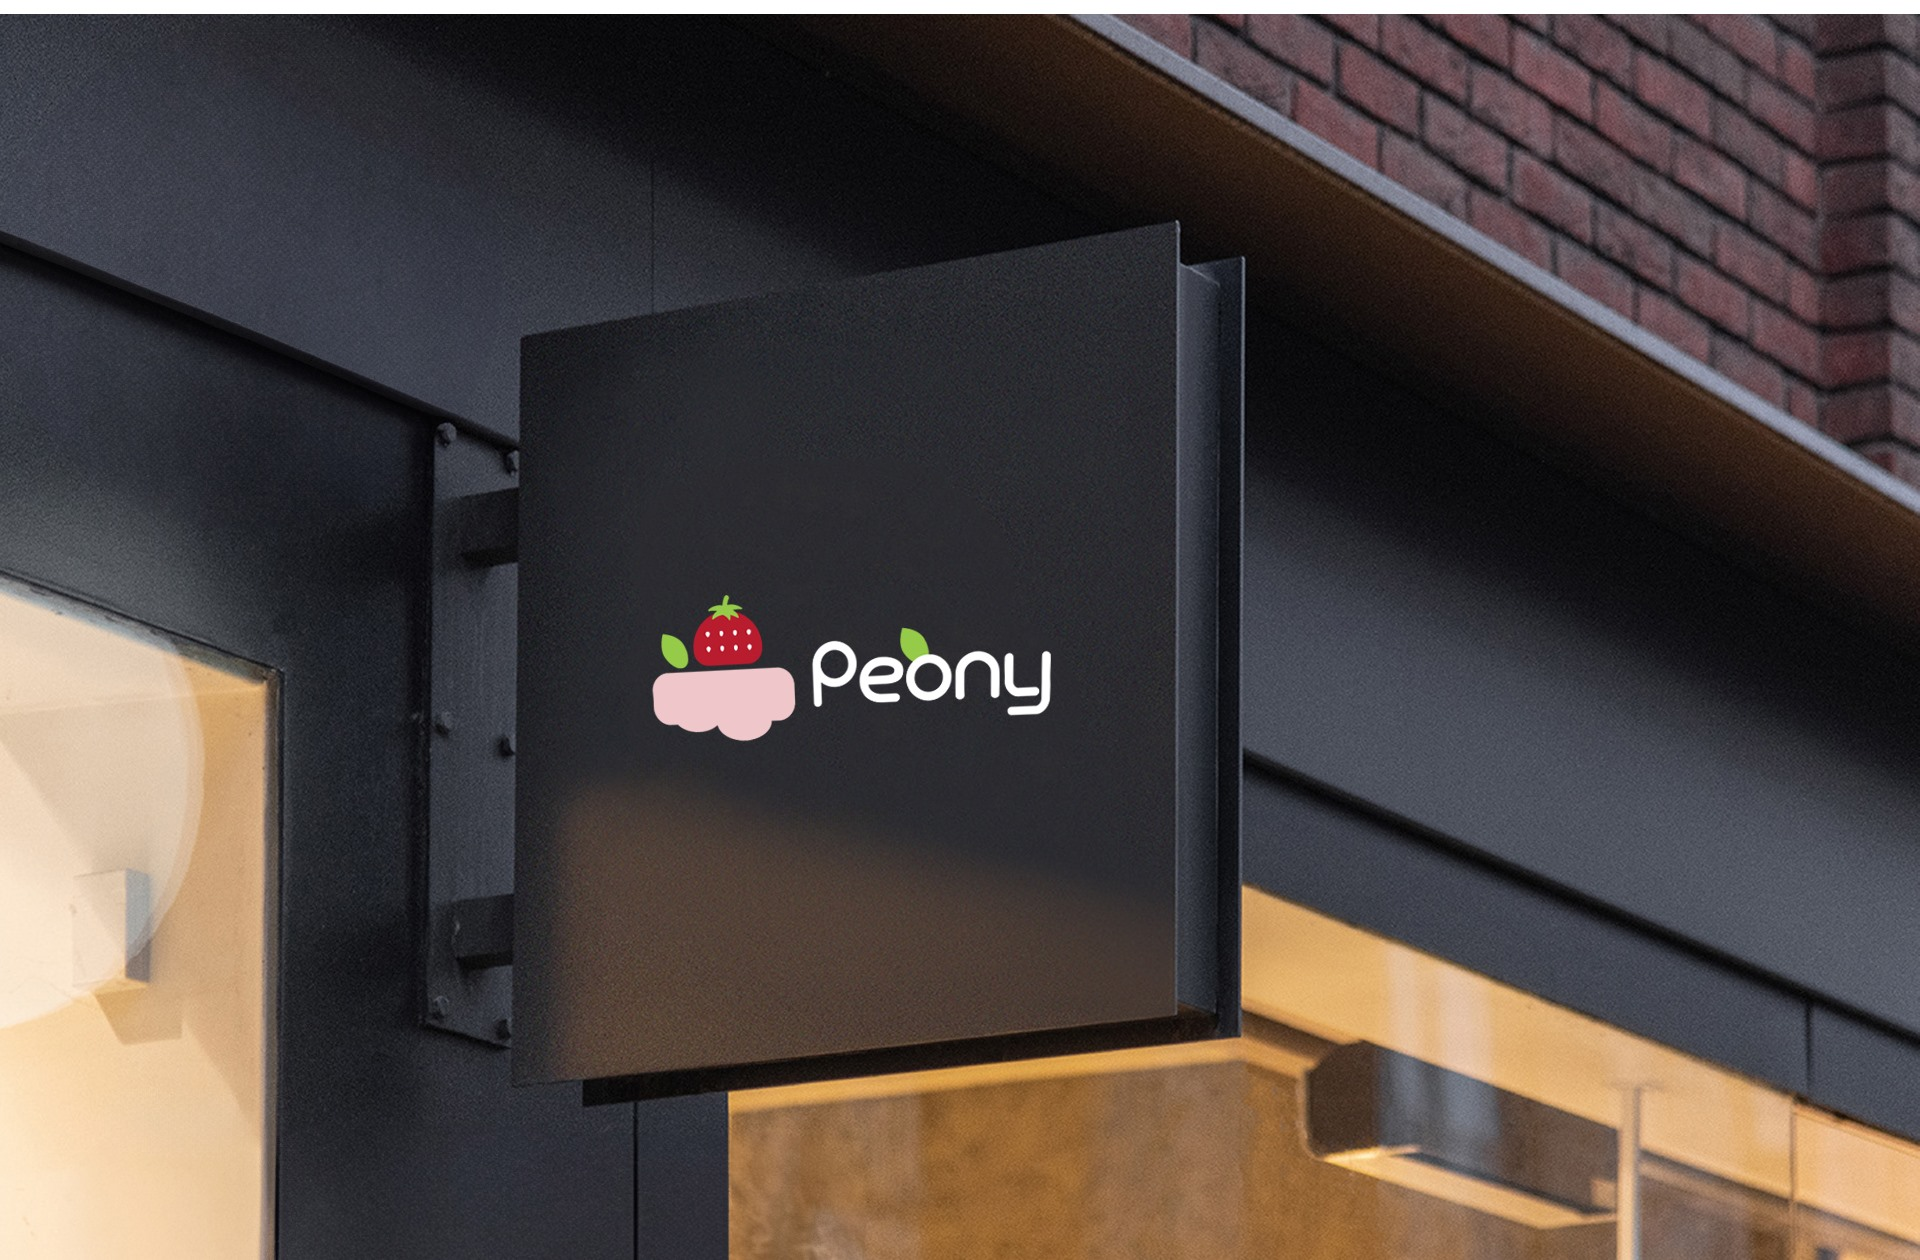
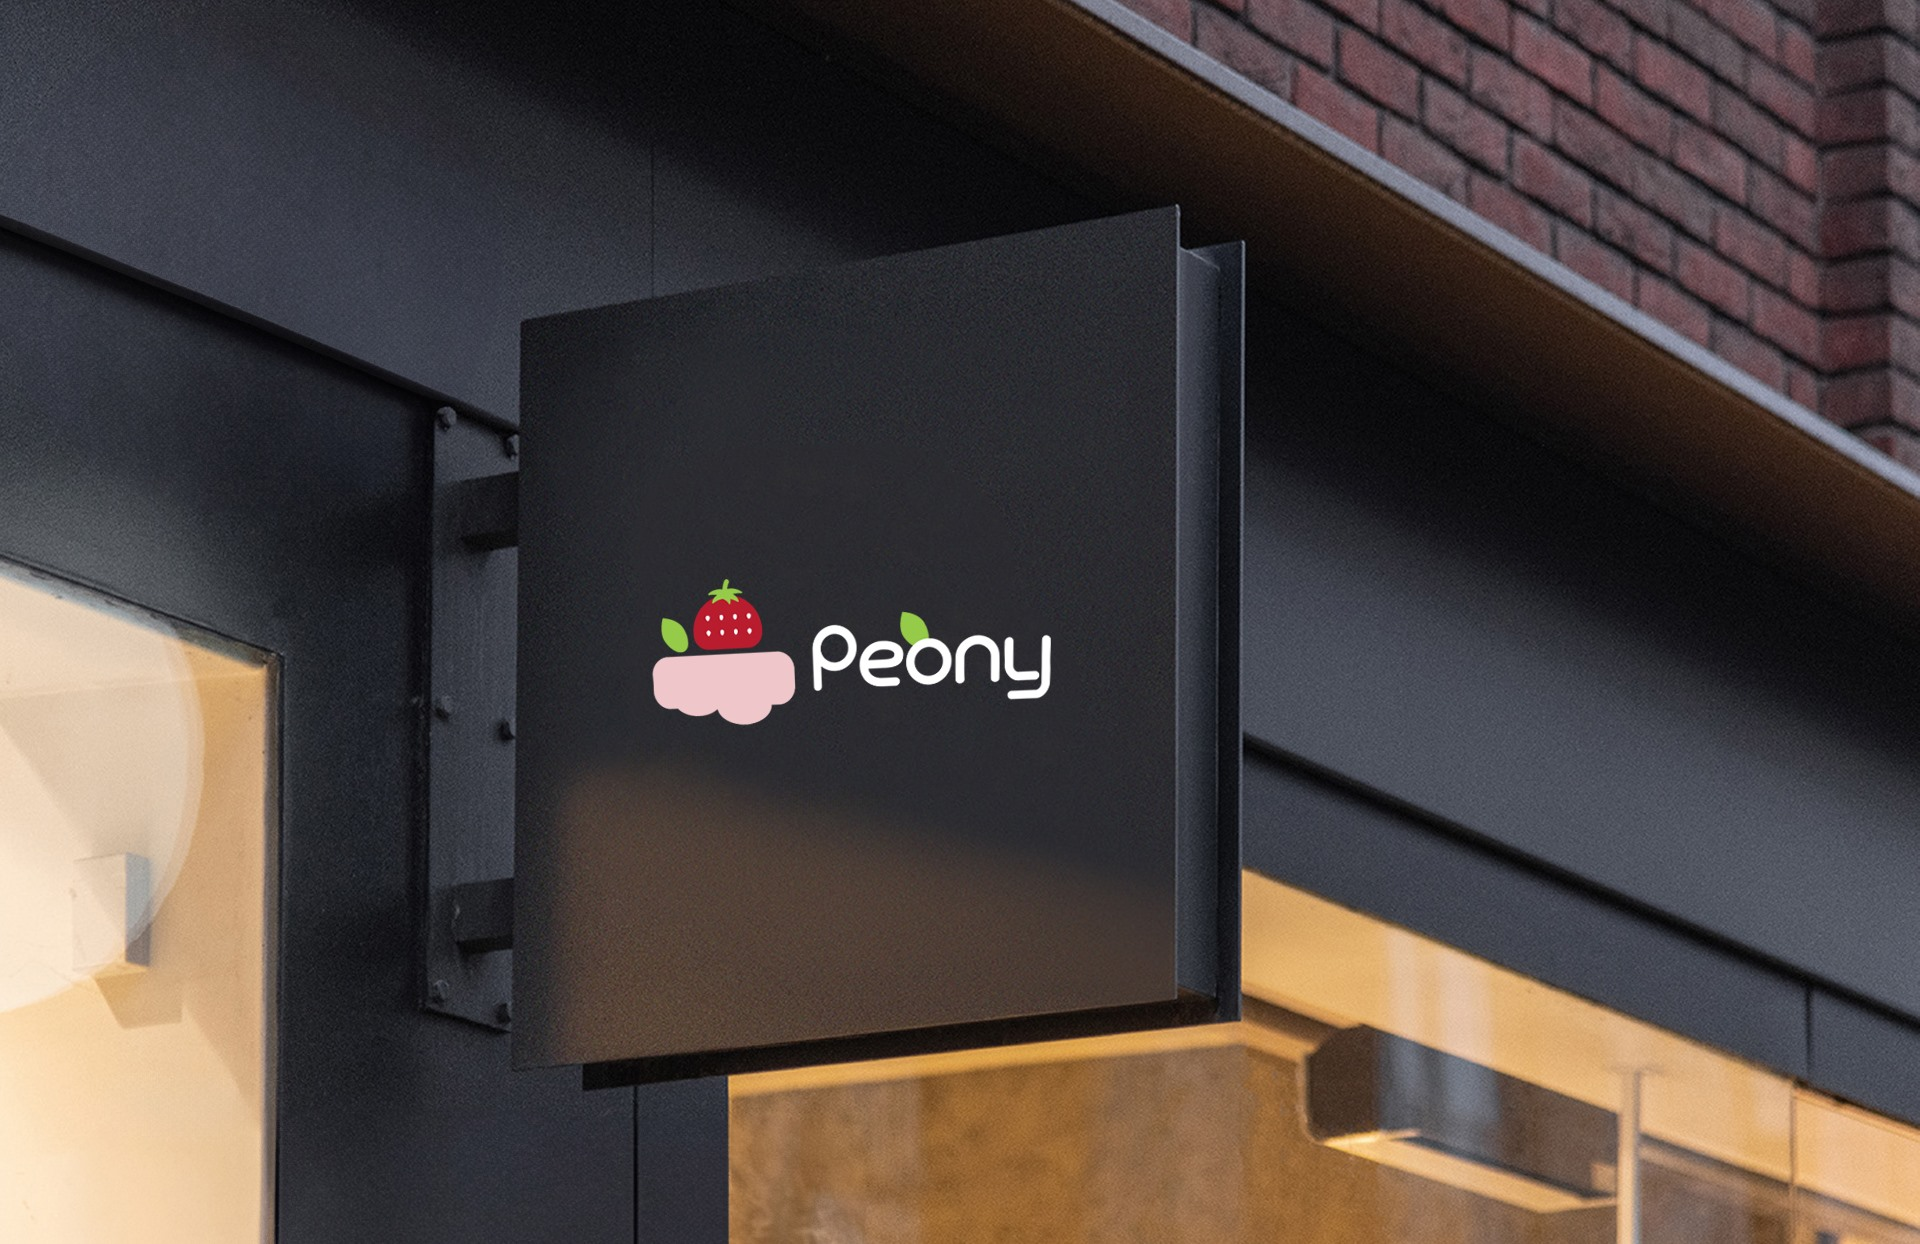
상세 페이지 Overview 영역(소개 문단+정보표) 전체 제거 + 피오니 대표컷 상단 흰 띠 제거
- 9개 페이지 모두 dt-grid 블록 삭제, 히어로→(Works) 간격 재정리(본문 상단 패딩 축소), 관련 CSS 정리
- 피오니: 크롭 상단에 포함됐던 시트 흰 경계 15px 재크롭으로 제거(원본 비율 유지, 확대 없음)

diff --git a/css/detail.css b/css/detail.css
@@ -39,19 +39,12 @@ a:focus-visible{ outline:2px solid currentColor; outline-offset:3px; }
 .dt-cover{ margin-top:clamp(36px,5vw,62px); border:1px solid var(--line-d); overflow:hidden; background:#10141d; }
 .dt-cover img{ width:100%; height:auto; }
 
-/* 본문 — 밝은 배경, 얇은 선으로 구획 */
-.dt-body{ padding:clamp(56px,8vw,104px) 0 clamp(64px,9vw,116px); }
+/* 본문 — 밝은 배경: 대표 비주얼에서 바로 작업 화면으로 이어짐 */
+.dt-body{ padding:clamp(44px,6vw,80px) 0 clamp(64px,9vw,116px); }
 .lab{ font-size:12.5px; font-weight:700; letter-spacing:.08em; color:var(--gray-ink); }
-.dt-grid{ display:grid; grid-template-columns:minmax(0,1.5fr) minmax(280px,1fr); gap:clamp(34px,6vw,96px);
-  padding-bottom:clamp(44px,6vw,72px); border-bottom:1px solid var(--line-l); }
-.dt-ov p{ margin-top:18px; font-size:clamp(17px,1.55vw,21px); font-weight:500; line-height:1.78; color:#2b2b28; word-break:keep-all; }
-.dt-meta div{ display:grid; grid-template-columns:112px 1fr; gap:14px; padding:13px 2px; border-bottom:1px solid var(--line-l); }
-.dt-meta div:first-child{ border-top:1px solid var(--line-l); }
-.dt-meta dt{ font-size:12.5px; font-weight:700; letter-spacing:.06em; color:var(--gray-ink); padding-top:3px; }
-.dt-meta dd{ font-size:14.5px; font-weight:500; color:#2b2b28; line-height:1.6; }
 
 /* 작업 화면 — 긴 페이지는 자연스러운 페이지 스크롤로, 얇은 선 프레임만 */
-.dt-shots{ margin-top:clamp(44px,6vw,72px); }
+.dt-shots{ margin-top:0; }
 .dt-shots .shot{ margin-top:26px; border:1px solid var(--line-l); overflow:hidden; background:#fff; }
 .dt-shots .shot img{ width:100%; height:auto; }
 .dt-shots figcaption{ font-size:13px; color:var(--gray-ink); padding:10px 2px 0; }
@@ -80,8 +73,6 @@ a:focus-visible{ outline:2px solid currentColor; outline-offset:3px; }
 }
 
 @media(max-width:760px){
-  .dt-grid{ grid-template-columns:1fr; }
-  .dt-meta{ margin-top:6px; }
   .dt-nthumb{ display:none; }
   .dt-sub{ font-size:15.5px; }
 }

diff --git a/peony.html b/peony.html
@@ -24,24 +24,12 @@
       <h1 class="dt-title rv">Peony Cake</h1>
       <p class="dt-sub rv">딸기 생크림 케이크를 모티프로 한 디저트 브랜드 Peony의 아이덴티티 디자인입니다.</p>
 
-      <figure class="dt-cover rv"><img src="assets/peony/peonymain.jpg" alt="Peony 브랜드 사인 목업" width="1920" height="1260" /></figure>
+      <figure class="dt-cover rv"><img src="assets/peony/peonymain.jpg" alt="Peony 브랜드 사인 목업" width="1920" height="1244" /></figure>
     </div>
   </section>
 
   <section class="dt-body">
     <div class="wrap">
-      <div class="dt-grid">
-        <div class="dt-ov rv">
-          <span class="lab">(Overview)</span>
-          <p>귀엽고 산뜻한 브랜드 이미지를 목표로 로고와 컬러 시스템, 타입페이스를 설계했습니다. 패키지·컵·사인 등 브랜드가 실제로 쓰이는 장면까지 목업으로 구성해 아이덴티티가 매체 전반에서 일관되게 유지되도록 했습니다.</p>
-        </div>
-        <dl class="dt-meta rv">
-          <div><dt>Type</dt><dd>개인 작업 — 브랜딩</dd></div>
-          <div><dt>Role</dt><dd>브랜드 디자인</dd></div>
-          <div><dt>Scope</dt><dd>BRANDING · LOGO · GRAPHIC</dd></div>
-          <div><dt>Tools</dt><dd>Illustrator · Photoshop</dd></div>
-        </dl>
-      </div>
       <div class="dt-shots">
         <span class="lab rv">(Works)</span>
         <figure class="shot rv"><img src="assets/peony/peony.jpg" alt="" loading="lazy" style="margin-top:-56%" /></figure>

diff --git a/sensemom.html b/sensemom.html
@@ -32,18 +32,6 @@
 
   <section class="dt-body">
     <div class="wrap">
-      <div class="dt-grid">
-        <div class="dt-ov rv">
-          <span class="lab">(Overview)</span>
-          <p>기존 공식몰은 상품과 프로모션 콘텐츠가 한 화면에 복잡하게 얽혀 있어 우선순위가 잘 드러나지 않았습니다. 카페24 템플릿을 기반으로 메인과 이벤트 콘텐츠 구조를 재구성하고, 운영 환경에서 배너·팝업 제작과 HTML·CSS 수정, 유지보수까지 함께 진행했습니다.</p>
-        </div>
-        <dl class="dt-meta rv">
-          <div><dt>Type</dt><dd>실무 작업 — 공식몰 리뉴얼·운영</dd></div>
-          <div><dt>Role</dt><dd>웹 디자인 · 퍼블리싱 · 운영</dd></div>
-          <div><dt>Scope</dt><dd>UIUX · WEB · PUBLISHING</dd></div>
-          <div><dt>Tools</dt><dd>Photoshop · Illustrator · HTML/CSS · 카페24</dd></div>
-        </dl>
-      </div>
       <div class="dt-shots">
         <span class="lab rv">(Works)</span>
         <figure class="shot rv"><img src="assets/sensemom/sense01.jpg" alt="" loading="lazy" style="margin-top:-69.3%" /></figure>

diff --git a/bobbibrown.html b/bobbibrown.html
@@ -32,19 +32,6 @@
 
   <section class="dt-body">
     <div class="wrap">
-      <div class="dt-grid">
-        <div class="dt-ov rv">
-          <span class="lab">(Overview)</span>
-          <p>제품이 돋보이도록 블랙을 기반으로 베이지 포인트를 더해 화면을 재구성했습니다. 메인 비주얼부터 상품·이벤트 영역까지 일관된 무드로 디자인하고, HTML·CSS로 직접 퍼블리싱해 실제로 동작하는 데모 페이지로 완성했습니다.</p>
-        </div>
-        <dl class="dt-meta rv">
-          <div><dt>Type</dt><dd>개인 리디자인</dd></div>
-          <div><dt>Role</dt><dd>웹 디자인 · 퍼블리싱</dd></div>
-          <div><dt>Scope</dt><dd>WEB · UIUX · BEAUTY</dd></div>
-          <div><dt>Tools</dt><dd>Photoshop · HTML/CSS</dd></div>
-          <div><dt>Credit</dt><dd>Design &amp; Publishing 100%</dd></div>
-        </dl>
-      </div>
       <div class="dt-shots">
         <span class="lab rv">(Works)</span>
         <figure class="shot rv"><img src="assets/bobbi/babipt1.jpg" alt="" loading="lazy" style="margin-top:-71.7%" /></figure>

diff --git a/patagonia.html b/patagonia.html
@@ -32,19 +32,6 @@
 
   <section class="dt-body">
     <div class="wrap">
-      <div class="dt-grid">
-        <div class="dt-ov rv">
-          <span class="lab">(Overview)</span>
-          <p>브랜드가 지향하는 자연과 환경의 메시지가 화면에서 먼저 읽히도록 메인을 재구성했습니다. 타이포그래피와 사진을 크게 쓰는 레이아웃으로 디자인하고, 직접 퍼블리싱해 실제로 동작하는 데모 페이지로 완성했습니다.</p>
-        </div>
-        <dl class="dt-meta rv">
-          <div><dt>Type</dt><dd>개인 리디자인</dd></div>
-          <div><dt>Role</dt><dd>웹 디자인 · 퍼블리싱</dd></div>
-          <div><dt>Scope</dt><dd>WEB · BRAND · UX</dd></div>
-          <div><dt>Tools</dt><dd>Photoshop · HTML/CSS</dd></div>
-          <div><dt>Credit</dt><dd>Design &amp; Publishing 100%</dd></div>
-        </dl>
-      </div>
       <div class="dt-shots">
         <span class="lab rv">(Works)</span>
         <figure class="shot rv"><img src="assets/patagonia/patapt1.jpg" alt="" loading="lazy" style="margin-top:-76%" /></figure>

diff --git a/museum.html b/museum.html
@@ -32,19 +32,6 @@
 
   <section class="dt-body">
     <div class="wrap">
-      <div class="dt-grid">
-        <div class="dt-ov rv">
-          <span class="lab">(Overview)</span>
-          <p>소장품이 주인공이 되도록 어두운 배경 위에 작품과 전시 정보를 정돈해 배치했습니다. 클래식한 무드와 현대적인 타이포그래피를 함께 사용해 디자인하고, 직접 퍼블리싱해 동작하는 데모 페이지로 완성했습니다.</p>
-        </div>
-        <dl class="dt-meta rv">
-          <div><dt>Type</dt><dd>개인 리디자인</dd></div>
-          <div><dt>Role</dt><dd>웹 디자인 · 퍼블리싱</dd></div>
-          <div><dt>Scope</dt><dd>WEB · UIUX · CULTURE</dd></div>
-          <div><dt>Tools</dt><dd>Photoshop · HTML/CSS</dd></div>
-          <div><dt>Credit</dt><dd>Design &amp; Publishing 100%</dd></div>
-        </dl>
-      </div>
       <div class="dt-shots">
         <span class="lab rv">(Works)</span>
         <figure class="shot rv"><img src="assets/museum/museum01.jpg" alt="" loading="lazy" style="margin-top:-79.7%" /></figure>

diff --git a/promotion.html b/promotion.html
@@ -30,18 +30,6 @@
 
   <section class="dt-body">
     <div class="wrap">
-      <div class="dt-grid">
-        <div class="dt-ov rv">
-          <span class="lab">(Overview)</span>
-          <p>상품과 이벤트의 목적에 맞춰 메시지와 비주얼을 구성한 작업들입니다. 자사몰 운영에 맞춘 배너·팝업부터 화장품·여행 등 브랜드별 프로모션 페이지까지, 구매 여정을 고려해 기획부터 제작까지 진행했습니다.</p>
-        </div>
-        <dl class="dt-meta rv">
-          <div><dt>Type</dt><dd>실무 + 개인 작업</dd></div>
-          <div><dt>Role</dt><dd>배너 · 팝업 · 프로모션 페이지 디자인</dd></div>
-          <div><dt>Scope</dt><dd>BANNER · POPUP · LANDING</dd></div>
-          <div><dt>Tools</dt><dd>Photoshop · Illustrator</dd></div>
-        </dl>
-      </div>
       <div class="dt-shots">
         <span class="lab rv">(Works)</span>
         <figure class="shot rv"><img src="assets/promotion/pro1.jpg" alt="" loading="lazy" style="margin-top:-31.5%" />

diff --git a/visual.html b/visual.html
@@ -30,18 +30,6 @@
 
   <section class="dt-body">
     <div class="wrap">
-      <div class="dt-grid">
-        <div class="dt-ov rv">
-          <span class="lab">(Overview)</span>
-          <p>&lsquo;한여름 밤의 꿈&rsquo; 공연을 주제로 포스터·티켓·리플릿을 하나의 무드로 연결해 디자인했습니다. 보랏빛 밤하늘의 몽환적인 색감을 중심으로, 매체별 규격과 쓰임에 맞게 비주얼을 전개했습니다.</p>
-        </div>
-        <dl class="dt-meta rv">
-          <div><dt>Type</dt><dd>실무 + 개인 작업</dd></div>
-          <div><dt>Role</dt><dd>그래픽 · 인쇄 디자인</dd></div>
-          <div><dt>Scope</dt><dd>POSTER · TICKET · PRINT</dd></div>
-          <div><dt>Tools</dt><dd>Illustrator · Photoshop</dd></div>
-        </dl>
-      </div>
       <div class="dt-shots">
         <span class="lab rv">(Works)</span>
         <figure class="shot rv"><img src="assets/visual/vs1.jpg" alt="" loading="lazy" style="margin-top:-66.7%" /></figure>

diff --git a/company.html b/company.html
@@ -34,18 +34,6 @@
 
   <section class="dt-body">
     <div class="wrap">
-      <div class="dt-grid">
-        <div class="dt-ov rv">
-          <span class="lab">(Overview)</span>
-          <p>펜션별 공간과 분위기가 먼저 전달되도록 사진을 크게 쓰는 화면으로 설계했습니다. 템플릿을 기반으로 브랜드마다 메인·객실·예약 흐름을 구성하고, 퍼블리싱을 거쳐 실제 운영 중인 사이트로 구현했습니다.</p>
-        </div>
-        <dl class="dt-meta rv">
-          <div><dt>Type</dt><dd>실무 작업</dd></div>
-          <div><dt>Role</dt><dd>웹 디자인 · 퍼블리싱</dd></div>
-          <div><dt>Scope</dt><dd>WEB · RESPONSIVE</dd></div>
-          <div><dt>Tools</dt><dd>Photoshop · HTML/CSS</dd></div>
-        </dl>
-      </div>
       <div class="dt-shots">
         <span class="lab rv">(Works)</span>
         <figure class="shot rv"><img src="assets/company/com01.jpg" alt="" loading="lazy" /></figure>

diff --git a/company2.html b/company2.html
@@ -32,18 +32,6 @@
 
   <section class="dt-body">
     <div class="wrap">
-      <div class="dt-grid">
-        <div class="dt-ov rv">
-          <span class="lab">(Overview)</span>
-          <p>가족 고객이 필요한 정보에 쉽게 닿도록 객실·시설·예약 동선을 정리했습니다. 밝고 편안한 톤으로 화면을 디자인하고, 퍼블리싱을 거쳐 실제 운영 중인 사이트로 구현했습니다.</p>
-        </div>
-        <dl class="dt-meta rv">
-          <div><dt>Type</dt><dd>실무 작업</dd></div>
-          <div><dt>Role</dt><dd>웹 디자인 · 퍼블리싱</dd></div>
-          <div><dt>Scope</dt><dd>WEB · RESPONSIVE</dd></div>
-          <div><dt>Tools</dt><dd>Photoshop · HTML/CSS</dd></div>
-        </dl>
-      </div>
       <div class="dt-shots">
         <span class="lab rv">(Works)</span>
         <figure class="shot rv"><img src="assets/company2/kids01.jpg" alt="" loading="lazy" /></figure>
